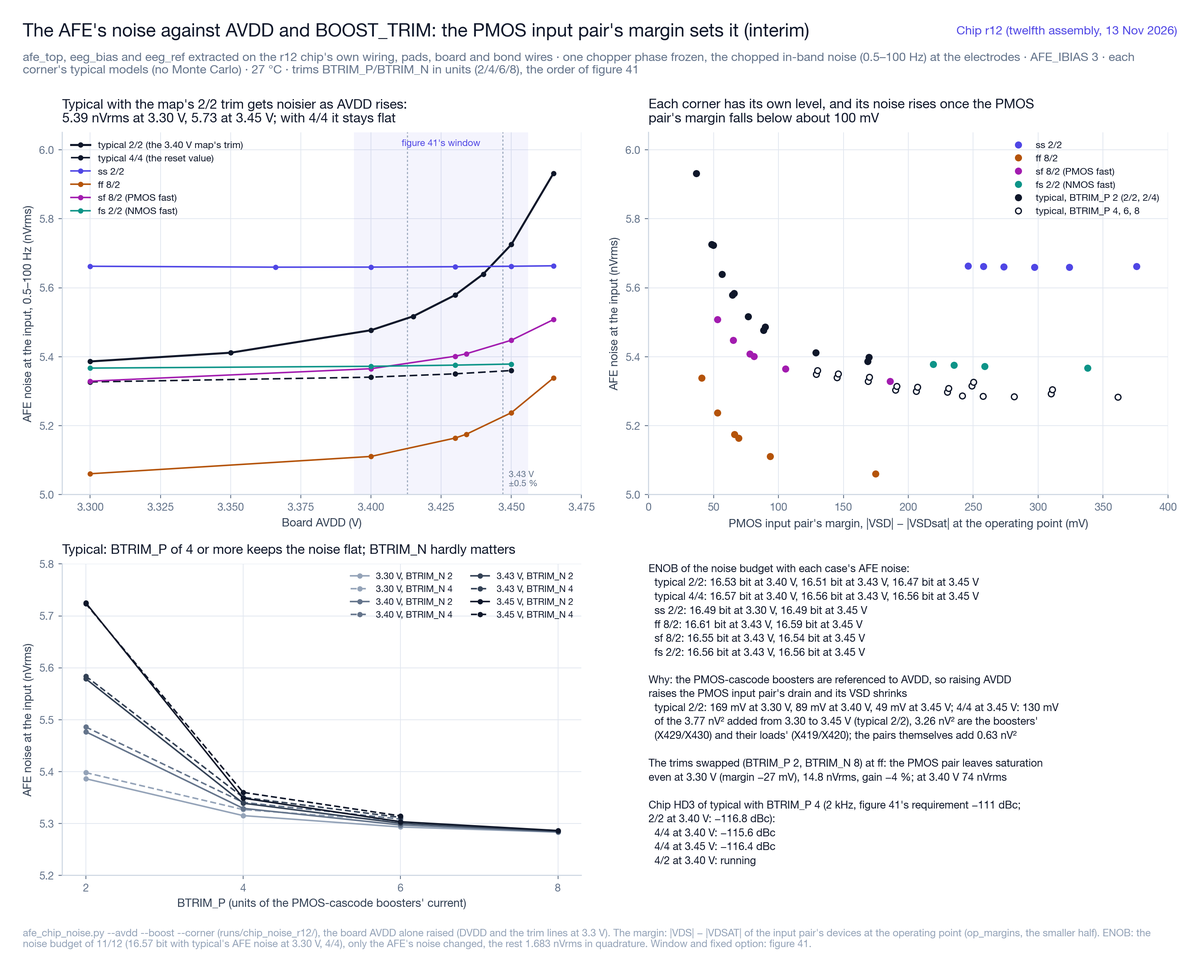
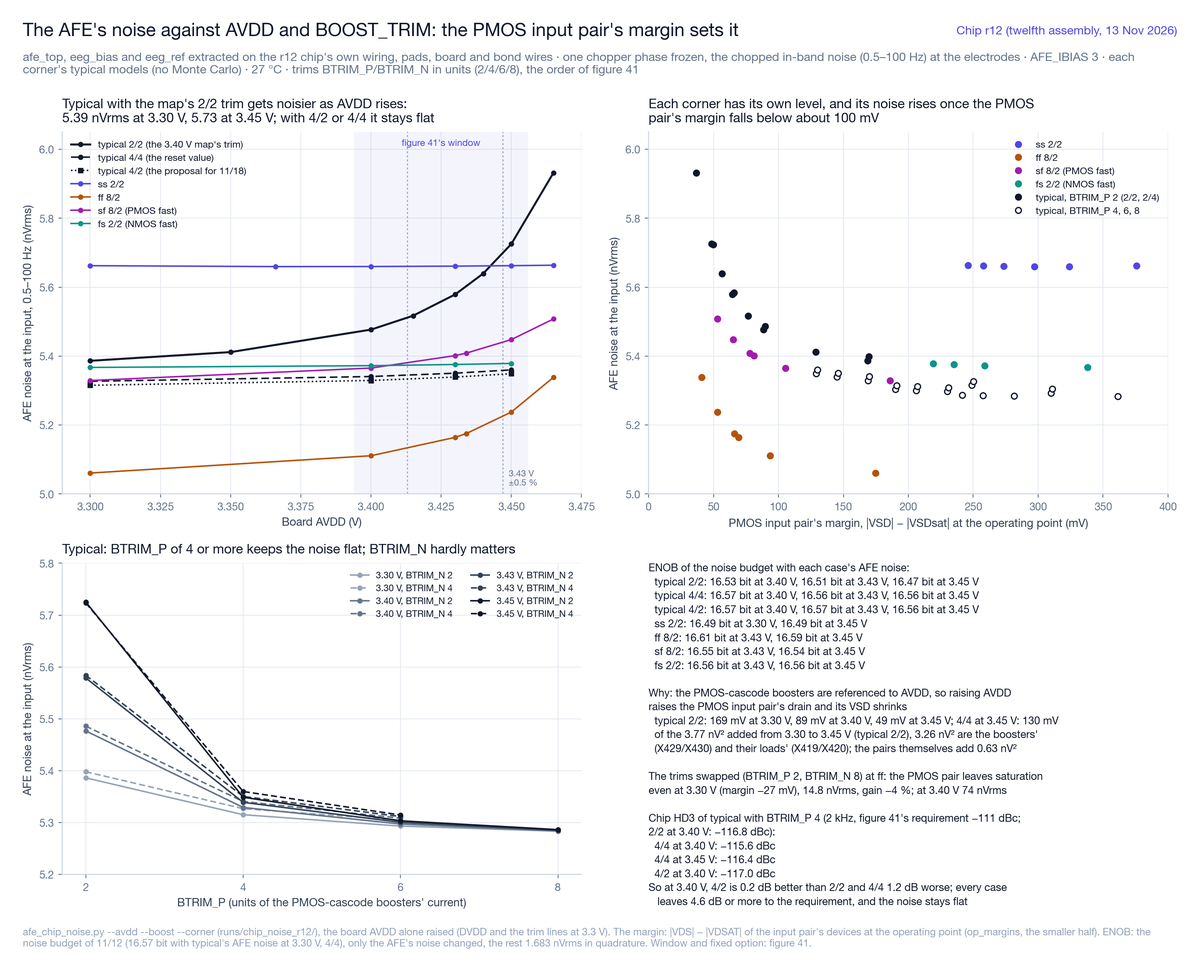
GF180 D7／F4（11/16）：typical の BOOST_TRIM を 4/2 にする案。チップでの HD3（2 kHz、フルスケール）は、typical 4/2 が 3.40 V で −117.0 dBc で 2/2（−116.8 dBc）と同じ、リセット値の 4/4 が 3.40 V で −115.6、3.45 V で −116.4 dBc で、どれも要求に 4.6 dB 以上の余裕がある（台はチップより 2/2 で 2.2、4/2 で 3.3、4/4 で 3.5〜3.9 dB 悪く出ていた）。4/2 なら雑音は AVDD によらず平ら（3.45 V で 5.349 nVrms

diff --git a/first_tapeout_eeg/gf180/tapeout/viz/afe_noise_avdd_fig.py b/first_tapeout_eeg/gf180/tapeout/viz/afe_noise_avdd_fig.py
@@ -36,6 +36,7 @@ CODE = {2: 0, 4: 1, 6: 2, 8: 3}
 # the corners with the 3.40 V trims of figure 41 (the margin map's), and typical's reset value 4/4
 SERIES = [("typical", 2, 2, INK, "-", "typical 2/2 (the 3.40 V map's trim)"),
           ("typical", 4, 4, INK, (0, (5, 2.5)), "typical 4/4 (the reset value)"),
+          ("typical", 4, 2, INK, (0, (1, 1.6)), "typical 4/2 (the proposal for 11/18)"),
           ("ss", 2, 2, ACCENT, "-", "ss 2/2"), ("ff", 8, 2, AMBER, "-", "ff 8/2"),
           ("sf", 8, 2, PLUM, "-", "sf 8/2 (PMOS fast)"), ("fs", 2, 2, TEAL, "-", "fs 2/2 (NMOS fast)")]
 AVDDS = {("typical", 2, 2): [3.3, 3.35, 3.4, 3.415, 3.43, 3.44, 3.45, 3.465], ("ss", 2, 2): [3.3, 3.366, 3.4, 3.43, 3.45, 3.465],
@@ -151,7 +152,8 @@ def main():
         if not pts:
             continue
         x, y = zip(*pts)
-        ax.plot(x, y, color=col, ls=ls, lw=1.6 if (c, p, n) == ("typical", 2, 2) else 1.2, marker="o", ms=3.2, label=lab)
+        ax.plot(x, y, color=col, ls=ls, lw=1.6 if (c, p, n) == ("typical", 2, 2) else 1.2,
+                marker="s" if (c, p, n) == ("typical", 4, 2) else "o", ms=3.2, label=lab)
     ax.set_xlim(3.29, 3.475)
     ax.set_ylim(5.0, 6.05)
     ax.set_xlabel("Board AVDD (V)")
@@ -159,7 +161,7 @@ def main():
     ax.legend(loc="upper left", fontsize=7.6)
     t22 = {av: data[("typical", 2, 2, av)]["total"] for av in (3.3, 3.45) if ("typical", 2, 2, av) in data}
     ax.set_title("Typical with the map's 2/2 trim gets noisier as AVDD rises" +
-                 (f":\n{t22[3.3]:.2f} nVrms at 3.30 V, {t22[3.45]:.2f} at 3.45 V; with 4/4 it stays flat" if len(t22) == 2 else ""),
+                 (f":\n{t22[3.3]:.2f} nVrms at 3.30 V, {t22[3.45]:.2f} at 3.45 V; with 4/2 or 4/4 it stays flat" if len(t22) == 2 else ""),
                  loc="left")
 
     # (b) noise against the PMOS pair's margin
@@ -169,7 +171,7 @@ def main():
         filled = not (c == "typical" and p != 2)
         ax.plot(r["pmos_pair"] * 1e3, r["total"], ls="none", marker="o", ms=4.6, color=col[c],
                 mfc=col[c] if filled else "white", mew=1.0)
-    for c, _, _, k, _, lab in SERIES[2:]:
+    for c, _, _, k, _, lab in (s for s in SERIES if s[0] != "typical"):
         ax.plot([], [], ls="none", marker="o", ms=4.6, color=k, label=lab)
     ax.plot([], [], ls="none", marker="o", ms=4.6, color=INK, label="typical, BTRIM_P 2 (2/2, 2/4)")
     ax.plot([], [], ls="none", marker="o", ms=4.6, color=INK, mfc="white", mew=1.0, label="typical, BTRIM_P 4, 6, 8")
@@ -204,6 +206,7 @@ def main():
     ax.set_axis_off()
     lines = ["ENOB of the noise budget with each case's AFE noise:"]
     for c, p, n, avs in (("typical", 2, 2, (3.4, 3.43, 3.45)), ("typical", 4, 4, (3.4, 3.43, 3.45)),
+                         ("typical", 4, 2, (3.4, 3.43, 3.45)),
                          ("ss", 2, 2, (3.3, 3.45)), ("ff", 8, 2, (3.43, 3.45)), ("sf", 8, 2, (3.43, 3.45)), ("fs", 2, 2, (3.43, 3.45))):
         got = [(av, data[(c, p, n, av)]["total"]) for av in avs if (c, p, n, av) in data]
         if got:
@@ -237,9 +240,10 @@ def main():
         lines.append(f"  {p}/{n} at {av:.2f} V: " + (f"{h:.1f} dBc".replace("-", "−") if h is not None else "running"))
     if not interim:
         worst = max(hd.values())
-        cost = max(h - h22 for (p, n, av), h in hd.items() if av == 3.4)
-        lines += [f"→ BTRIM_P 4 costs typical at most {cost:.1f} dB of HD3 against 2/2 and leaves",
-                  f"   {-111 - worst:.1f} dB or more to the requirement, with the noise flat"]
+        dd3 = {pn: hd[(*pn, 3.4)] - h22 for pn in ((4, 2), (4, 4))}
+        word = lambda d: f"{abs(d):.1f} dB " + ("better" if d < 0 else "worse")     # noqa: E731
+        lines += [f"So at 3.40 V, 4/2 is {word(dd3[(4, 2)])} than 2/2 and 4/4 {word(dd3[(4, 4)])}; every case",
+                  f"   leaves {-111 - worst:.1f} dB or more to the requirement, and the noise stays flat"]
     ax.text(0.0, 1.0, "\n".join(lines), transform=ax.transAxes, va="top", fontsize=8.4, color=INK, linespacing=1.5)
 
     os.makedirs(OUT, exist_ok=True)

diff --git a/first_tapeout_eeg/documentation/gf180_tapeout_tracker.md b/first_tapeout_eeg/documentation/gf180_tapeout_tracker.md
@@ -103,7 +103,7 @@
 | D4 | L3：AFE＋ADC＋DAC セル＋量子化器の短窓トランジスタ E2E。10/22：`gf180/tapeout/sim/e2e/e2e_deck.py`（AFE とそのクロックドライバ、ADC ブロック、バイアス生成、基準電圧のフィルタ。typical）で 70 µs を回した。16 kHz・フルスケールの正弦波で、AFE の出力（チョッパ周期の平均）の利得 268.9（周期平均の sinc を除くと約 276）、ADC まで含めた全体 282、量子化の残差 0.031（DAC の段の単位、ADC 単体と同じ）、AVDD 27.2 mA。窓が 16 kHz の 0.8 周期しかないので、利得の精度は数 %。AFE_RST を解除した瞬間の入力が Cin に残る起動時の現象を見つけた（AFE の文書）。1 本 45〜75 分。10/24：寄生込みの E2E（`gf180/tapeout/pex/pex_e2e.py`、`gf180_pex_20261023.md` の「寄生込みの E2E」、図 `documentation/figures/gf180/r9_20261029/e2e_pex/gf180_e2e_pex_r9_*.png`）。AFE と ADC を最終のチップ（B7、B4 の直し込み）の抽出に差し替え、Ch-A を横切る OUTP／OUTN のチップの配線（74／70 fF、片側 35.6 Ω）も足して、回路図と比べた。AFE の利得 291.4（回路図 291.5、配線込み 290.9）、全体 301.2〜301.9、AVDD 27.2 mA、O2 −33〜+34 mV で同等。量子化の残差は寄生込みで約 2 倍（0.017 → 0.032、帯域の外）。リセットの解除のあとの相 A／B の不釣り合い（寄生込みで 19 mV、時定数 143 µs で抜ける）で、ADC の入力の瞬時値は最大 297 mV（フルスケール 300 mV の内側）。仕様を外れるものはない。10/25：4 回目のチップ（電極の DC 電流の直しのあと）の抽出で回し直した。AFE の利得 291.3（配線込み 290.8）、全体 301.5〜302.5、量子化の残差 0.028／0.021。相 A／B の不釣り合いは 19 → −2.6 mV（その大きさは入力チョッパのクロックの結合の WP／WN の差で決まっていた）、ADC の入力の瞬時値は ±287 mV で回路図と同じ。10/26：5 回目のチップ（WN の配線抵抗の直しのあと）でも回し直し、ほぼ同じ（相 A／B −2.7 mV、量子化の残差 0.026／0.021、ADC の入力 ±287 mV）。10/26 夜：6 回目のチップ（Magic DRC の直しのあと）でも回し直し、ほぼ同じ（AFE の利得 291.3、相 A／B −2.7 mV、量子化の残差 0.025／0.021、ADC の入力 ±287 mV）。10/30：9 回目のチップ（ADC は C1・C2 を 1.25 倍にした 7 回目の抽出、AFE は 6 回目と同じ）で回し直した（`runs/e2e_r7/`。d4 と sch も今の回路図で）：AFE の利得 291.3（配線込み 290.8）、全体 299.8〜300.4、量子化の残差 0.016／0.017（回路図 0.017。寄生込みで増えなくなった）、相 A／B −2.7 mV、ADC の入力 ±287 mV。11/9：10 回目のチップ（量子化器のラッチのグラウンドを AVSS につないだ ADC の抽出）で 4 通りとも回し直し、すべて同じ値（`runs/e2e_r10/`。抽出は基板を AVSS とするので、前からラッチは AVSS につながった形で計算されていた）。11/13：11 回目と 12 回目の抽出でも回した（`runs/e2e_r11/`、`runs/e2e_r12/`）。寄生込みは AFE の利得 291.4、全体 299.8／300.4、残差 0.019／0.019。チップの配線込み（pexchip。OUTP／OUTN が約 20 Ω 長くなった）は 290.6、299.9／299.5、0.018／0.014 で、r10 と同じ大きさ。残り：コーナー | 11/17 | ▶（typical ✅、寄生込み ✅） |
 | D5 | 今回 rev の構成決定レビュー。判断が要るもの：ADC のポリ抵抗のフリッカ（11/12、D7、図 33。PDK の大きさを今の電流でとると、フルスケールで 16.26 bit）。11/12 に直す案を調べた（`gf180_realistic_eval_20261028.md` の「RIN と DAC1 を ppolyf_u に替える案」、図 `plan_20261112`、設計はまだ変えていない）：1 単位（300 kΩ）を幅 0.8 µm の ppolyf_u 2 本の直列にすると、雑音 0.069 倍で、フルスケールでも 16.57 bit。抵抗の間を 0.4 µm にし、OTA1 と第 2 段を東へ 28.9 µm ずらせば ADC に収まる（外形は同じ）。角は今と同じ ±20 %、温度による変化は約 1/10。DAC1 は偶成分が要求の 1/90 以下のまま、出力の電位差への感度が 1.59 倍（ループの HD3 約 −129 dBc）、BRK の時間は同じ。R21 も替えるとよい。替えるなら ADC のレイアウト、DRC／LVS、precheck、PEX、DAC1 とループの確認、通し（約 54 時間）をやり直す（1 週間ほど）。替えないなら、フルスケールの 16.26 bit を予測として明記し、チップで測る。勧めは替えるほう（ENOB はフルスケールに近い正弦波で測るため）。**11/12 にユーザーが替えると決めた**（RIN と DAC1、勧めのとおり R21 も ppolyf_u に。11 回目のチップで作業する。走っている 10 回目の通しは r10 の抽出だけを読むので、止めずに進める）。11/12〜13：11 回目のチップで替えた（E4）。作ったままの抵抗でフリッカを計算し直し、フルスケールで 0.29 nVrms、16.57 bit（入力が小さいときと同じ。`runs/adc_flicker_r11`）。11/13：外から指摘のあった、敏感な網の下を通るクロックとデータの線を、ユーザーの判断で 12 回目で直した（E3、E4）。AFE の通路の覆いで電極の DC 電流が ±1.56 → ±1.71 nA になるが、ユーザーの判断で覆いは残した。**発注の候補は r12**（E8） | 11/18 | ▶ |
 | D6 | L4：重要ブロックの PEX 確認（チョッパの寄生結合、AFE 入力節点、積分器・DAC）。10/23：magic で寄生容量を抽出し（ネット名は KLayout の LVS の結果で回路図に対応づけ、MIM の基板容量は下の板へ補正）、入力の信号経路の配線抵抗は KLayout の R 抽出で求めた。AFE、ADC のループ、DAC1、OTA1 のチョッパを、回路図・抽出した素子だけ・寄生込みの 3 つで比べた（`gf180/tapeout/pex/`、`documentation/gf180_pex_20261023.md`）。寄生容量だけなら差は小さい（AFE の雑音 4.64 → 4.70 nVrms、利得 −0.2 %、HD3 −116 dBc、ADC のループの利得・CM・電流、積分器の整定は同等）。**仕様を外れるもの 4 つ**：① 入力の信号経路の配線抵抗が片側 76／119 Ω（コアの入力対のゲート配線 72／115、Cin の下の板の網 4.0、チョッパの EP／EN 0.35）で、AFE の雑音 19.1 nVrms、約 14.8 bit。② DAC1 の偶成分 0.47〜0.69 fC（要求 0.008 fC）で SNDR 約 70 dB。③ DC 経路のスイッチの CIB2 の結合の非対称で AFE の出力に 39 mV p-p のリップル。④ 量子化器の入力の結合の非対称で判定が平均 +2.4 LSB ずれる。原因と直し方（目標値つき）は文書の「直し方」。直したあと同じ流れで確かめる。10/24：4 件をレイアウトで直し（E3、E4）、チップを組み直して抽出と比較を回し直した（文書の「直したあとの確認」）。4 件とも仕様の内側に戻った：配線抵抗は片側 0.634／0.676 Ω（チップで測定。Cin の下の Metal3 の面は Tesselation）、DAC1 の偶成分 −0.0014 fC（123 dB）、リップル 3.62 mV p-p、量子化器の入力の結合はそろい、ループの残差 0.027。AFE の雑音は寄生込みで 4.81 nVrms、配線抵抗込みで 5.05 nVrms、総残差 6.05〜6.07 nVrms（16.45〜16.46 bit）で、16.50 bit に 0.04〜0.05 bit 足りない（片側 0.35 Ω まで下げるには AFE の配置の変更が要り、今回 rev はこの形）。抽出の補正を直した：magic が MIM の上の板に付ける、下の導体（Cin の下の Metal3 の面など）への容量を下の板へ移す（`pex.py` の `mim_shield`。AFE で WP–INP の見かけの 21.3 pF を消した）。**新しく 1 件が仕様を外れた**（直し方 1、2 の副作用）：INP と増幅器の出力 ONI／OPI の結合（P 側だけ 617／526 fF。コアの上端で INP を Cin のバスへつなぐ Metal5 の下を ONI／OPI の Metal4 が通る）で、フルスケールの HD2 −70 dBc（仕様 −111 dBc 以下）、利得 −2 % 前後。抽出からこの結合だけを除くと HD2 −114 dBc に戻る。E3 で直した（幹線を移して遮蔽、出力部の P 側を N 側の鏡映に。4 つの結合は 9 fF 以下、HD2〜HD5 −113.8／−117.2／−120.9／−137.7 dBc、利得は回路図に戻った）。リップルは 4.00 mV p-p（目標の境、クロックの線と出力の結合の P／N の差。帯域の外なので受け入れ）。チップを組み直した（E7）。2 回目までの歪みの確認は 2 kHz だけで、帯域内の低い周波数の HD2（DC 経路が 1 本で −87 dBc）は B7 の確認で見つかり、DC 経路を対称にして直した（0cb0fff4）。B7 と B4 の直しを入れた最終のチップ（3 回目、10/24）で確かめ直した：帯域内のフルスケールの HD2〜HD5 −132.7／−120.4／−160.9／−144.5 dBc、リップル 2.02 mV p-p、AFE の雑音 4.81 nVrms（配線抵抗込み 5.05）、配線抵抗は片側 0.634／0.676 Ω で変わらず。チップは DRC 違反なし、LVS 一致、穴埋めのあとの全 DRC も違反なし、precheck 通過。**10/25：信号がなくても電極に流れる DC 電流を調べて直した**（文書の「電極に流れる DC 電流（10/25）」）。3 回目の抽出の I_ELP −40.0／I_ELN +33.3 nA（`viz_data.py zin`）のうち、同相の −3.4 nA ずつは ngspice の GMIN による見かけ（抽出の入力 TG が PMOS M=1024・NMOS M=512 の 1 素子ずつで、接合ごとの GMIN が打ち消さない）で、実際は差動 ±36.6 nA。入力チョッパのゲートのクロックの結合が WP と WN で違い（チョッパの中のストラップの並びで WN だけが CIA／NCIA のピンの隣、ゲートの折り返しが WN の面の下、上端の WP の板、OFPH の西の線が WN の面の下）、交換器が電荷を一方の電極から他方へ運んでいた。電極の要求を 1 本あたり 1 nA 以下（1 MΩ で 1 mV）とし、1 MΩ で片側 37 mV（16.5 bit の前提の電極オフセット数 mV を外れる）なので不適合と判断して、E3 のレイアウトで直した：差動 ±1.65 nA（22 分の 1、ポンプに効く結合の差 −90.6 → +0.6 fF）、チップの配線を足して ±1.35 nA。残りはコアの INP／INN の寄生の非対称による（抽出で INP／INN を対称にすると差動 +0.5 nA）。今回 rev はこの値で受け入れる（1 MΩ で片側 1.65 mV、範囲 1 の内側）。雑音 4.811 nVrms、利得 297.89 は変わらない。副作用：チョッパの下の WN の面からゲートのレーンの通路を外したため、WN の W の配線抵抗が 0.339 → 0.570 Ω（通路を渡るのが Cin_N のバス 5 µm だけ）。配線抵抗込みの雑音 5.048 → 5.086 nVrms、総残差 6.05 → 6.08 nVrms（16.46 → 16.45 bit）。直すなら通路の上に WN の Metal5 だけを戻す（`gf180_pex_20261023.md`）。10/25 午後：可視化の図（`gf180_viz_20261024.md`）と、配線抵抗・歪み・寄生込みの E2E を 4 回目のチップで測り直した：帯域内の静的な HD2〜HD5 −165.8／−120.3／−148.9／−145.5 dBc、2 kHz −134.1／−118.2／−143.9／−141.6 dBc（仕様の内側）。10/25 夜：通路の上に WN の Metal5 を戻して直した（5 回目のチップ、E3）：WN の W 0.354 Ω、配線抵抗は両側 1.32 Ω（1.47 nVrms）、配線抵抗込みの雑音 5.049 nVrms、総残差 6.05〜6.07 nVrms（16.45〜16.46 bit、10/24 と同じ）。ポンプに効く結合の差 +0.61 → +0.80 fF、電極の DC 電流 ±1.56 nA、利得 297.89、リップル 2.37 mV p-p。10/26 朝：歪み、寄生込みの E2E、`viz_data.py` の AFE の組も 5 回目の抽出で回し直した（4 回目とほぼ同じ）：帯域内の静的な HD2〜HD5 −167.2／−120.3／−149.0／−145.5 dBc、2 kHz −134.2／−118.1／−143.0／−141.5 dBc、E2E の AFE の利得 291.3、相 A／B −2.7 mV、ADC の入力 ±287 mV。可視化の図 10、16〜24 も描き直した。10/26（6 回目、Magic DRC の直し：抵抗のコンタクトと MIM の Via4）：AFE と DAC1 を抽出し直して確かめた。雑音 4.811 nVrms（配線抵抗込み 5.050）、利得 297.89、リップル 2.37 mV p-p、電極の DC 電流 −1.55／+1.57 nA、DAC1 の偶成分 −0.00135／−0.00125 fC で 5 回目と同じ。配線抵抗の W は Cin の Via4 の分で 0.347／0.357 Ω（+3〜4 mΩ、`gf180_pex_20261023.md`）。10/26 夜：歪み（帯域内の静的な HD2〜HD5 −164.0／−120.3／−148.9／−146.0 dBc、2 kHz −133.9／−118.1／−141.4／−141.1 dBc）、寄生込みの E2E、`viz_data.py` の組、ADC のループ（利得 1.0040、残差 0.0318、判定が理想のしきい値と合うフレーム 91.2 %。3 回目の抽出からの差は 80 フレームの窓の揺れの範囲）、DAC1 の偶成分の行動モデル（123.0 dB）も 6 回目の抽出で回し直した。どれも 5 回目（ADC は 3 回目）とほぼ同じ。可視化の図は版ごとのフォルダ（`documentation/figures/gf180/r6_20261026/`）に全部描き直し、KLayout で描いたレイアウトの図 9 枚を足した。10/30：9 回目のチップ（今の版）の図を `documentation/figures/gf180/r9_20261029/` に全部描き直した。ADC は 7 回目の抽出（ループの利得 0.9974、残差 0.0202、判定 95.0 %、DAC1 の偶成分の行動モデル 123.0 dB）、AFE は 6 回目と同じ抽出、チップの配線を通す結果（雑音、入力経路の配線抵抗、起動、OUTP／OUTN の窓）は 9 回目で取り直した | 10/30 | ✅ |
-| D7 | 実際に近い条件での立ち上がりと性能（10/27〜、`gf180_realistic_eval_20261028.md`）。電源投入から（電源のランプ、`uic`）、RTL のリセットの順序、パッドリング、基板（仮定）とボンディングワイヤ、チップの配線（`pex_chipnets.py`：パッドセル、AVDD／AVSS の網とデカップリング、ブロックの間の配線と結合）、抽出した afe_top／eeg_bias／eeg_ref、モンテカルロ（工程と素子ごと。MIM と抵抗の素子ごとは仮の係数）、AVDD ±5 %（`gf180/tapeout/pex/afe_startup.py`）。雑音はチップの実際の動作点で測る（`afe_chip_noise.py`）。ADC を含めた電源投入からの通しは `e2e_startup.py`。10/28：雑音は上の予算の表のとおり（code 3 で 16.40 bit）。電極 0 V の立ち上がり（code 2、typical・±5 %・モンテカルロ 10）は、解除の 1 周期で −0.08〜−0.40 mV 振れ、7 µs 以内に −0.073 ± 0.002 mV（電極換算 −0.24 µV）に落ち着く。バイアスは電源投入から 0.91〜0.95 ms で 1 % 以内。通しのデッキは電源投入から AFE の解除後 50 µs まで回り、全体の利得 298.3。10/28〜29：AFE_IBIAS code 3 の書き込みを入れたモンテカルロ 30 と ±5 %、電極の DC オフセット、正弦波、VCM の容量 100 nF／1 µF、ADC 側を実際の条件で回した（ADC の C1・C2 を 1.25 倍にした）。10/31：9 回目のチップの配線で起動を回し直した。モンテカルロ 30 と ±5 % はすべて最後まで回り、解除後の出力は −0.075 ± 0.006 mV、0.1 mV まで 12 µs 以内、バイアスは 0.89〜0.97 ms で 1 % 以内で、6 回目と実質同じ。電極の DC オフセットは 300 mV まで打ち消せ、段の大きさは抽出のビットの重みで説明できる（どの範囲でも単調、残差の最大は範囲 1 で 153 µV、範囲 2 以上で 166 µV）。11/2：電源投入から CIC の出力までの通し（r6、r7、10 ms）が最後まで回った。有効な 3 サンプルはどれも RTL とビット一致し、電極から DATA までの利得は 306.6（r6 と r7 のサンプルの差は 7 LSB 以内）。11/8〜9：デジタル側（9 個の bi_24t、ブロックの電源電流、チップの DVDD／DVSS）を、9 回目の通しのチャンク 14 に入れて比べた（`digital_noise.py`）。リングの揺れは 18 → 59 mV p-p、ADC のデジタルの電源は 417 mV p-p。結合で AFE の出力にできる一定のずれは電極換算 0.21 nV で、DATA の約 1 LSB、計算の差（0.13 nV）と同じ大きさ。ADC の符号は 48 フレームとも一致した。この結合は MCLK に同期するので、一定のずれにしかならない。SPI の読み出しでも符号は一致し、周期ごとの差は 0.2 nV rms 以下。11/9：RAW の出力を動かす組（b3）も最後まで回った。AFE の入力の揺れは b1 の約 2 倍（同相 15.2 mV p-p、差動 16.7 µV p-p）になるが、出力の一定のずれは −0.11 nV、周期ごとの残りは 0.11 nV rms で、符号は 48 フレームとも一致した（図 31、`documentation/figures/gf180/r10_20261109/viz/`）。11/11：9 回目のチップの配線での通しも最後まで回った。有効な 3 サンプルはどれも RTL とビット一致し、7 回目より 0.064 % 大きい。差はすべて AFE の利得の差で、AFE の AVSS の持ち上がりが小さくなって AFE の電流が約 1 % 増えたため。ADC 側は 7 回目と同じだった。11/11：図 31 のデッキの ADC を 10 回目の抽出に替えて、5 本を回し直した（b2 は区切り点の近さで一度止まり、MISO を 0.125 ns ずらして回し直した）。5 本とも 48 フレームの ADC の符号が 7 回目の抽出のときと同じだった。結合の一定のずれは電極換算 0.30 nV で、計算の差（0.27 nV）と同じ大きさ。SPI の読み出しと RAW の出力でも、周期ごとの残りは 0.3 nV rms 以下。図 31 を描き直した。11/13：10 回目の通しも最後まで回った。有効な 3 サンプルはどれも RTL とビット一致し、9 回目との差は +4、−1、−3 LSB（1 本の中の続くサンプルどうしの違いと同じ大きさ）、電源と基準は 9 回目と同じ。11 回目の通しは、12 回目に替えたのでチャンク 4 で止めた。11/13：11 回目と 12 回目のチップの配線で雑音を回し直し、9 回目と 0.001 nVrms 以内で同じ（AFE_IBIAS 3 で typical 5.327 nVrms、モンテカルロ 30 の最悪 5.498 nVrms）。11/15：12 回目の起動のバッチは 50 本のうち 32 本が済み（モンテカルロ 18 本）、9 回目と同じ値（バイアス 0.91〜0.95 ms、解除から 0.1 mV まで 9 µs 以内、出力 −0.099 ± 0.006 mV、電極のオフセットの残差は出力で 0.06 mV 以内で同じ）。電源投入をプロセスの角 4 つ × AVDD ±5 % と電源の立ち上がり 10 µs〜100 ms で回し、20 本とも起動した（起動回路は AVDD 0.61〜1.03 V で切れる。図 37、`powerup_checks.py`）。基板への要求に、AVDD と外の基準を DVDD より先に上げないこと（アナログのパッドの ESD ダイオードが DVDD のリングへ向く）と、解除を電源が上がりきってから数えることを足した。11/16：12 回目の起動のバッチ 50 本と通し（71 時間）が終わった。通しの有効な 3 サンプルはどれも RTL とビット一致し、10 回目より −0.175 %（ADC の基準電圧 +0.057 %、AFE の利得 −0.116 %）。角での AFE の解除（図 38）：どの角でも動き出すが、BOOST_TRIM がリセット値 4/4 のままだと、フルスケールの HD3 が ss −97.6、sf −96.8、fs −106.1 dBc で要求（−111 dBc）に届かない。AVDD −5 % ではどのトリムでも届かない。AVDD を上げるとよくなり、3.40 V と角ごとのトリムで 5 つの角が届く。チップの窓は約 3.394〜3.456 V（図 41）。ADC は ADC の電源 3.39 V でも 3.245 V と同じに動く。ただし、typical を地図の 2/2 にすると、AVDD を上げた分だけ AFE の雑音が増える（3.45 V で 5.73 nVrms、予算で 16.47 bit。BTRIM_P を 4 以上にすれば平ら。図 42）。BTRIM_P 4 でも HD3 は届く：typical のリセット値 4/4 のチップの HD3 は、3.40 V で −115.6、3.45 V で −116.4 dBc（要求に 4.6 dB 以上の余裕。2/2 より 1.2 dB 悪いだけ）。電極のオフセットで飽和した最初の電源投入（図 39）：書いても増幅器は出力チョッパの後ろで飽和したまま残るので、ホストは書くたびに AFE_RST を 100 µs 上げる（typical と ss で確かめた。ss では typical の M では残差が大きく、M の探索がもう 1 回要る）。ADC は過負荷から自分で戻る（最大 0.22 ms、図 40）。残り：typical 4/2 のチップの HD3（3.40 V、11/16 の夜）、11/18 の構成決定（AVDD とトリム）、実際のレギュレータの PSRR | 11/18 | ▶ |
+| D7 | 実際に近い条件での立ち上がりと性能（10/27〜、`gf180_realistic_eval_20261028.md`）。電源投入から（電源のランプ、`uic`）、RTL のリセットの順序、パッドリング、基板（仮定）とボンディングワイヤ、チップの配線（`pex_chipnets.py`：パッドセル、AVDD／AVSS の網とデカップリング、ブロックの間の配線と結合）、抽出した afe_top／eeg_bias／eeg_ref、モンテカルロ（工程と素子ごと。MIM と抵抗の素子ごとは仮の係数）、AVDD ±5 %（`gf180/tapeout/pex/afe_startup.py`）。雑音はチップの実際の動作点で測る（`afe_chip_noise.py`）。ADC を含めた電源投入からの通しは `e2e_startup.py`。10/28：雑音は上の予算の表のとおり（code 3 で 16.40 bit）。電極 0 V の立ち上がり（code 2、typical・±5 %・モンテカルロ 10）は、解除の 1 周期で −0.08〜−0.40 mV 振れ、7 µs 以内に −0.073 ± 0.002 mV（電極換算 −0.24 µV）に落ち着く。バイアスは電源投入から 0.91〜0.95 ms で 1 % 以内。通しのデッキは電源投入から AFE の解除後 50 µs まで回り、全体の利得 298.3。10/28〜29：AFE_IBIAS code 3 の書き込みを入れたモンテカルロ 30 と ±5 %、電極の DC オフセット、正弦波、VCM の容量 100 nF／1 µF、ADC 側を実際の条件で回した（ADC の C1・C2 を 1.25 倍にした）。10/31：9 回目のチップの配線で起動を回し直した。モンテカルロ 30 と ±5 % はすべて最後まで回り、解除後の出力は −0.075 ± 0.006 mV、0.1 mV まで 12 µs 以内、バイアスは 0.89〜0.97 ms で 1 % 以内で、6 回目と実質同じ。電極の DC オフセットは 300 mV まで打ち消せ、段の大きさは抽出のビットの重みで説明できる（どの範囲でも単調、残差の最大は範囲 1 で 153 µV、範囲 2 以上で 166 µV）。11/2：電源投入から CIC の出力までの通し（r6、r7、10 ms）が最後まで回った。有効な 3 サンプルはどれも RTL とビット一致し、電極から DATA までの利得は 306.6（r6 と r7 のサンプルの差は 7 LSB 以内）。11/8〜9：デジタル側（9 個の bi_24t、ブロックの電源電流、チップの DVDD／DVSS）を、9 回目の通しのチャンク 14 に入れて比べた（`digital_noise.py`）。リングの揺れは 18 → 59 mV p-p、ADC のデジタルの電源は 417 mV p-p。結合で AFE の出力にできる一定のずれは電極換算 0.21 nV で、DATA の約 1 LSB、計算の差（0.13 nV）と同じ大きさ。ADC の符号は 48 フレームとも一致した。この結合は MCLK に同期するので、一定のずれにしかならない。SPI の読み出しでも符号は一致し、周期ごとの差は 0.2 nV rms 以下。11/9：RAW の出力を動かす組（b3）も最後まで回った。AFE の入力の揺れは b1 の約 2 倍（同相 15.2 mV p-p、差動 16.7 µV p-p）になるが、出力の一定のずれは −0.11 nV、周期ごとの残りは 0.11 nV rms で、符号は 48 フレームとも一致した（図 31、`documentation/figures/gf180/r10_20261109/viz/`）。11/11：9 回目のチップの配線での通しも最後まで回った。有効な 3 サンプルはどれも RTL とビット一致し、7 回目より 0.064 % 大きい。差はすべて AFE の利得の差で、AFE の AVSS の持ち上がりが小さくなって AFE の電流が約 1 % 増えたため。ADC 側は 7 回目と同じだった。11/11：図 31 のデッキの ADC を 10 回目の抽出に替えて、5 本を回し直した（b2 は区切り点の近さで一度止まり、MISO を 0.125 ns ずらして回し直した）。5 本とも 48 フレームの ADC の符号が 7 回目の抽出のときと同じだった。結合の一定のずれは電極換算 0.30 nV で、計算の差（0.27 nV）と同じ大きさ。SPI の読み出しと RAW の出力でも、周期ごとの残りは 0.3 nV rms 以下。図 31 を描き直した。11/13：10 回目の通しも最後まで回った。有効な 3 サンプルはどれも RTL とビット一致し、9 回目との差は +4、−1、−3 LSB（1 本の中の続くサンプルどうしの違いと同じ大きさ）、電源と基準は 9 回目と同じ。11 回目の通しは、12 回目に替えたのでチャンク 4 で止めた。11/13：11 回目と 12 回目のチップの配線で雑音を回し直し、9 回目と 0.001 nVrms 以内で同じ（AFE_IBIAS 3 で typical 5.327 nVrms、モンテカルロ 30 の最悪 5.498 nVrms）。11/15：12 回目の起動のバッチは 50 本のうち 32 本が済み（モンテカルロ 18 本）、9 回目と同じ値（バイアス 0.91〜0.95 ms、解除から 0.1 mV まで 9 µs 以内、出力 −0.099 ± 0.006 mV、電極のオフセットの残差は出力で 0.06 mV 以内で同じ）。電源投入をプロセスの角 4 つ × AVDD ±5 % と電源の立ち上がり 10 µs〜100 ms で回し、20 本とも起動した（起動回路は AVDD 0.61〜1.03 V で切れる。図 37、`powerup_checks.py`）。基板への要求に、AVDD と外の基準を DVDD より先に上げないこと（アナログのパッドの ESD ダイオードが DVDD のリングへ向く）と、解除を電源が上がりきってから数えることを足した。11/16：12 回目の起動のバッチ 50 本と通し（71 時間）が終わった。通しの有効な 3 サンプルはどれも RTL とビット一致し、10 回目より −0.175 %（ADC の基準電圧 +0.057 %、AFE の利得 −0.116 %）。角での AFE の解除（図 38）：どの角でも動き出すが、BOOST_TRIM がリセット値 4/4 のままだと、フルスケールの HD3 が ss −97.6、sf −96.8、fs −106.1 dBc で要求（−111 dBc）に届かない。AVDD −5 % ではどのトリムでも届かない。AVDD を上げるとよくなり、3.40 V と角ごとのトリムで 5 つの角が届く。チップの窓は約 3.394〜3.456 V（図 41）。ADC は ADC の電源 3.39 V でも 3.245 V と同じに動く。ただし、typical を地図の 2/2 にすると、AVDD を上げた分だけ AFE の雑音が増える（3.45 V で 5.73 nVrms、予算で 16.47 bit。BTRIM_P を 4 以上にすれば平ら。図 42）。BTRIM_P 4 でも HD3 は届く：チップの HD3 は、typical 4/2 が 3.40 V で −117.0 dBc（2/2 の −116.8 と同じ）、リセット値の 4/4 が 3.40 V で −115.6、3.45 V で −116.4 dBc（要求に 4.6 dB 以上の余裕）。typical のトリムは 4/2 を勧める（雑音は平らで、予算は 3.45 V でも 16.56 bit。窓の上の端は ff 8/2 の約 3.460 V になる）。電極のオフセットで飽和した最初の電源投入（図 39）：書いても増幅器は出力チョッパの後ろで飽和したまま残るので、ホストは書くたびに AFE_RST を 100 µs 上げる（typical と ss で確かめた。ss では typical の M では残差が大きく、M の探索がもう 1 回要る）。ADC は過負荷から自分で戻る（最大 0.22 ms、図 40）。残り：11/18 の構成決定（AVDD とトリム）、実際のレギュレータの PSRR | 11/18 | ▶ |
 
 ## E. レイアウトと統合
 
@@ -125,7 +125,7 @@
 | F1 | Half Height（1x0.5）スロットの購入 | 12/9 |
 | F2 | 基板側の条件の確認：DVDD 3.3 V、AVDD を低雑音 LDO からアナログパッドへ、VREF の供給、32.768 MHz の発振器。11/9 に足した条件：(1) 電源を入れる順序。DVDD は、AVDD、VREFP／VREFN、発振器と同時か先に上げ、切るときは後に切る。アナログのパッド（asig_5p0）の ESD ダイオードはどれも IO リングの DVDD／DVSS につながり、これらが DVDD より約 0.5 V 以上高いと DVDD へ電流が流れる（電源投入の計算はどれも同時に上げている）。(2) VREFP > VREFN（ADC のループが負帰還になる前提）。11/16 に足した案（11/18 に決める）：(3) AVDD は調整できるレギュレータで約 3.43 V にし、ダイごとに合わせる（ss のダイは 3.45 V）。固定なら 3.43 V ±0.5 %。3.3 V では、角によってフルスケールの HD3 が要求に届かない（`gf180_realistic_eval_20261028.md` の窓の節、図 41、42） | 10/31 |
 | F3 | 独立環境（Codex）の扱い：設計の変更は止めて、こちらから切り出す解析だけを頼む形にする。10/22 から独立環境は動かしておらず、取り込んだ版（`gf180/tapeout/import_20261021/`）を起点にしている | 早め |
-| F4 | ファームウェア：RESET_N を解除したあと、AFE_RST を下ろす前に AFE_IBIAS を 3 に書く（10/28 決定。AFE のテールの AVSS がバイアス回路の AVSS より 25 mV 高く、リセット値の 2 では AFE の電流が約 19 % 少ない。D7）。書き込みは ANA_TRIM = 0x38：AFE_IBIAS は ANA_TRIM[5:4] で、[3:0] の CPF_TRIM（リセット値 8）と同じバイトをまとめて書くため、0x30 では CPF_TRIM が 0 になる（CPF_TRIM を変えるときは [3:0] をその値に）。ほかに守る条件（11/9、デジタルとアナログの境目の確認から。`gf180_verification_coverage_20261029.md`）：(1) CHOP_DLY は 0 のまま。ブランキングは CHOP_OUT の縁について動くので、1 以上では入力チョッパの縁が隠れず、DC 経路がその過渡を拾う（`gf180_afe_clk_20261022.md` の「最適な CHOP_DLY を決める」は取り下げ）。(2) BLANK_LEN は 1 以上（既定 7、オフセット DAC を使うときは 15。0 では出力チョッパの CDA と CDB が縁で一瞬重なる）。オフセット DAC を使うときに 15 にするのは自動ではない。(3) CHOP_EN = 0 と ADC_ZERO = 1 の間は AFE の入力の DC 経路が止まる。戻したあとは AFE_RST を通すか、落ち着くのを待つ。(4) オフセット DAC の大きさ M は、選んだ範囲の上限を超えて書かない（上のビットは切り捨てられ、丸めない）。(5) オフセット DAC を書くたびに、20 µs 以上あけて AFE_RST を 100 µs 上げ、下ろしてから 0.22 ms 待ち、FILTER_CLEAR のあと SETTLING が終わってから読む（11/16、`gf180_electrode_dc_20261022.md` の「使い方」。D7）。(6) BOOST_TRIM はダイごとに、試験で THD と雑音から決めた値を書く（11/16、11/18 に決める。BTRIM_P と BTRIM_N を入れ違えると、ff では入力対が飽和から外れる。D7） | 評価の前 |
+| F4 | ファームウェア：RESET_N を解除したあと、AFE_RST を下ろす前に AFE_IBIAS を 3 に書く（10/28 決定。AFE のテールの AVSS がバイアス回路の AVSS より 25 mV 高く、リセット値の 2 では AFE の電流が約 19 % 少ない。D7）。書き込みは ANA_TRIM = 0x38：AFE_IBIAS は ANA_TRIM[5:4] で、[3:0] の CPF_TRIM（リセット値 8）と同じバイトをまとめて書くため、0x30 では CPF_TRIM が 0 になる（CPF_TRIM を変えるときは [3:0] をその値に）。ほかに守る条件（11/9、デジタルとアナログの境目の確認から。`gf180_verification_coverage_20261029.md`）：(1) CHOP_DLY は 0 のまま。ブランキングは CHOP_OUT の縁について動くので、1 以上では入力チョッパの縁が隠れず、DC 経路がその過渡を拾う（`gf180_afe_clk_20261022.md` の「最適な CHOP_DLY を決める」は取り下げ）。(2) BLANK_LEN は 1 以上（既定 7、オフセット DAC を使うときは 15。0 では出力チョッパの CDA と CDB が縁で一瞬重なる）。オフセット DAC を使うときに 15 にするのは自動ではない。(3) CHOP_EN = 0 と ADC_ZERO = 1 の間は AFE の入力の DC 経路が止まる。戻したあとは AFE_RST を通すか、落ち着くのを待つ。(4) オフセット DAC の大きさ M は、選んだ範囲の上限を超えて書かない（上のビットは切り捨てられ、丸めない）。(5) オフセット DAC を書くたびに、20 µs 以上あけて AFE_RST を 100 µs 上げ、下ろしてから 0.22 ms 待ち、FILTER_CLEAR のあと SETTLING が終わってから読む（11/16、`gf180_electrode_dc_20261022.md` の「使い方」。D7）。(6) BOOST_TRIM はダイごとに、試験で THD と雑音から決めた値を書く（11/16、11/18 に決める。3.40 V の目安は typical 4/2、ss 2/2、ff 8/2、sf 8/2、fs 2/2。BTRIM_P と BTRIM_N を入れ違えると、ff では入力対が飽和から外れる。D7） | 評価の前 |
 
 ## 主なリスク
 

diff --git a/first_tapeout_eeg/documentation/figures/gf180/r12_20261113/README.md b/first_tapeout_eeg/documentation/figures/gf180/r12_20261113/README.md
@@ -16,7 +16,7 @@
   - **まだ描いていない図：** 31（デジタル側。12 回目の通しのチャンク 14 で、11/16 の 3 時 49 分から E コアで回している。1 日ほどかかる）。32（電極の入力と DATA の対応）は、12 回目の通しが 11/16 の 12 時 3 分に終わったので描いた。
   - 図 25〜28 は、起動のバッチ（50 本）が 11/16 の 3 時 44 分に終わってから描いた。
   - 図 34（敏感な網とスイッチする網の交差）、図 35（フルスケールの正弦波から出した ENOB、11/14）、図 36（ADC の OTA の非線形と DAC1 のジッタ、11/15）、図 37（電源投入のプロセスの角と電源の立ち上がりの速さ、11/15）は、この版で足した図。
-  - 図 38（角での AFE の解除）、図 39（電極オフセットがある最初の電源投入）、図 40（ADC の過負荷）、図 41（AFE の線形性の窓）は 11/16 に足した図。図 40（8 時 52 分）と図 38（9 時 31 分）は、回していた計算がそろったので描き直した。39 と 41 はまだ途中（回している計算があり、そろったら描き直す）。11 時 7〜9 分に終わった 100 µs のパルスと ±1 % の 2 本を入れて、39 と 41 を描き直した（39 は 4 段にして、パルスの中と図 27 との差を足した）。41 は 12 時 52 分に終わった窓の端の 2 本を入れて仕上げた。
+  - 図 38（角での AFE の解除）、図 39（電極オフセットがある最初の電源投入）、図 40（ADC の過負荷）、図 41（AFE の線形性の窓）は 11/16 に足した図。図 40（8 時 52 分）と図 38（9 時 31 分）は、回していた計算がそろったので描き直した。39 と 41 はまだ途中（回している計算があり、そろったら描き直す）。11 時 7〜9 分に終わった 100 µs のパルスと ±1 % の 2 本を入れて、39 と 41 を描き直した（39 は 4 段にして、パルスの中と図 27 との差を足した）。41 は 12 時 52 分に終わった窓の端の 2 本を入れて仕上げた。図 42（AFE の雑音：AVDD と BOOST_TRIM）も 11/16 に足した図で、typical の BTRIM_P 4 のチップの HD3 の 3 本（21 時 37 分にそろった）を入れて仕上げた。39 は 300 mV の 11 ms までのランを回している。
 - **12 回目で変わっていないものは、最後に変わった版の結果を使った**（変わっていないことは XOR かデッキの比べで確かめた）。
   - adc_rdac、OTA、量子化器、eeg_bias、eeg_ref は 11 回目と同じなので、ブロックのモンテカルロ（図 29）とポリ抵抗のフリッカ（図 33）は 11 回目のもの。行動モデル（図 29）も 11 回目のブロックのモンテカルロから回した（`runs/adc_beh_mc_r11/`）。
   - 寄生込みの E2E（図 16〜18）の d4 と sch は、11 回目の実行の写し。回路図のデッキは版によらず、`pex_e2e.deck_text()` が 11 回目のものと 1 文字も違わず、読み込むファイルもその実行より前のまま（`runs/e2e_r12/README.md`）。
@@ -57,7 +57,7 @@
 | 39 | 電極オフセットがある最初の電源投入（途中） | `saturation_fig.py`（`runs/startup/start_c1e-08_v3.3_typical_+{30,300}mV_*_sat6ms*_chip_r12`：`afe_saturation.py`。DAC を切ったまま解除、6.0 ms に書く、AFE_RST の入れ直し 20 µs と 100 µs）。比べるのは図 27 のラン。300 mV の 11 ms までと、ss での 100 µs のパルスを回している |
 | 40 | ADC の過負荷 | `overload_fig.py`（`adc_overload.py` の抽出した ADC のループ：±2.5 V と 20 kHz の正弦波、+2.5 V を 150 µs のあと −39 mV の DC。`adc_overload_beh.py` の行動モデル：抽出との比べ、同じ状態からの 2 ms、42 ダイ × 300 状態のスイープ。`runs/adc_overload_r12/`） |
 | 41 | AFE の線形性の窓：AVDD に対するフルスケールの HD3 | `afe_window_fig.py`（`gf180/tapeout/sim/afe/afe_margin_map.py`：`runs/margin_map/hd_window.json`、`calib.json`、`map_fine3.json`）。チップの点は図 38 のランと、AVDD 3.40 V の 5 本（`runs/startup/start_c1e-08_v3.4_*_chip_r12`）、3.40 V ±1 % の 2 本（ss 3.366 V、ff 3.434 V）と窓の端の 2 本（ff 3.465 V、ss 3.45 V、`run_edges.py`）。入力対の余裕は `calib.py` の台（3.4845 V の点も） |
-| 42 | AFE の雑音：AVDD と BOOST_TRIM（途中） | `afe_noise_avdd_fig.py`（`gf180/tapeout/pex/afe_chip_noise.py --avdd --boost --corner`：`runs/chip_noise_r12/chip_A_ib3_*`、凍結した相 A、AFE_IBIAS 3、各角の typical のモデル。PMOS 入力対の余裕は `afe_chip_noise.op_margins`。typical の BTRIM_P 4 のチップの HD3 は `runs/startup/start_c1e-08_v{3.4,3.45}_typical_*_bt4-4_chip_r12` と `start_c1e-08_v3.4_typical_*_bt4-2_chip_r12`（`afe_trim_start.py`）を図 41 と同じ方法で。4/4 の 2 本は 11/16 の 21 時 11 分に終わり、途中の版に入れた。4/2 は回している） |
+| 42 | AFE の雑音：AVDD と BOOST_TRIM | `afe_noise_avdd_fig.py`（`gf180/tapeout/pex/afe_chip_noise.py --avdd --boost --corner`：`runs/chip_noise_r12/chip_A_ib3_*`、凍結した相 A、AFE_IBIAS 3、各角の typical のモデル。PMOS 入力対の余裕は `afe_chip_noise.op_margins`。typical の BTRIM_P 4 のチップの HD3 は `runs/startup/start_c1e-08_v{3.4,3.45}_typical_*_bt4-4_chip_r12` と `start_c1e-08_v3.4_typical_*_bt4-2_chip_r12`（`afe_trim_start.py`）を図 41 と同じ方法で。4/4 の 2 本（11/16 の 21 時 11 分）と 4/2（21 時 37 分）がそろったので仕上げた） |
 
 ### 図 11 の元
 
